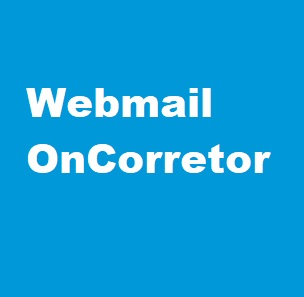
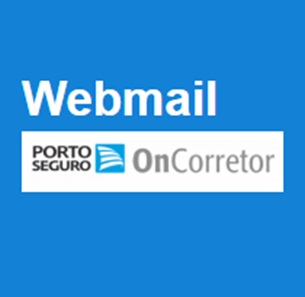
layout

Changed region(s): [[0.0592, 0.2424, 0.9474, 0.6667]]

diff --git a/index.html b/index.html
@@ -6,20 +6,12 @@
     <meta name="viewport" content="width=device-width, initial-scale=1.0">
     <title>Página interna</title>
     <link rel="shortcut icon" href="imagens/dareli circulo favicon 200x200.png" type="image/x-icon">
-    <style>
-        body{
-            background-color: rgb(250, 249, 249)         
-        }
-        img {
-            width:100px;
-            height:100px;
-        }
-    </style>
-    </head>
+    <link rel="stylesheet" href="style.css">
+</head>
 <body>
     <h1> INTERNOS </h1>
         <a href="https://web.whatsapp.com/" target="_blank" rel="external">
-                <img src="imagens/whatapp logo 400x400.jpg" ></a>
+                <img src="imagens/whatsapp fundo verde.png" ></a>
 
         <a href="https://webmail.dareliseguros.com.br/" target="_blank">
                 <img src="imagens/webmail oncorretor.JPG" ></a>

diff --git a/style.css b/style.css
@@ -1,7 +1,7 @@
 @charset "UTF-8";
 
 body{
-    background-color: rgb(250, 249, 249)         
+    background-color: rgb(226, 226, 226)         
 }
 img {
     width:100px;
